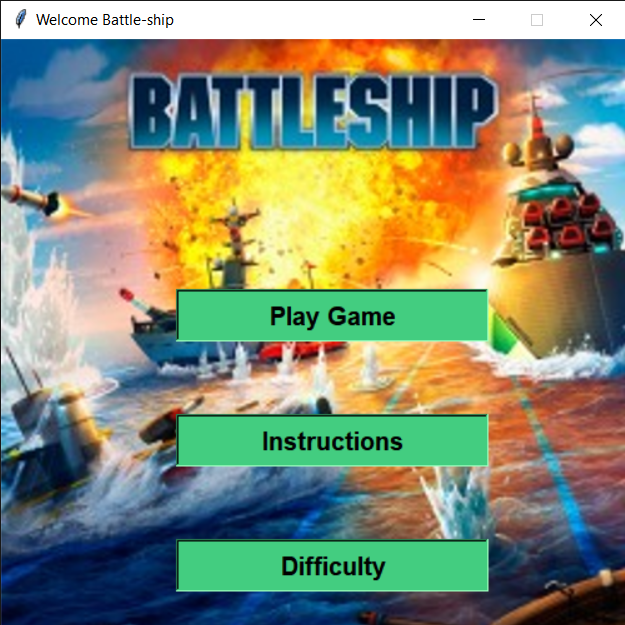
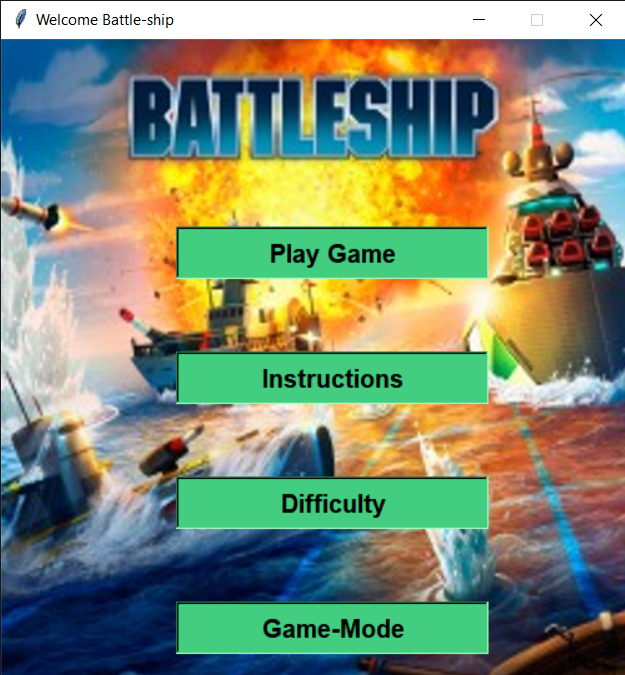
Two player mode added for Battle-ship game

diff --git a/Python/Battle-ship-game/game.py b/Python/Battle-ship-game/game.py
@@ -23,11 +23,23 @@ class Create:
 
 	@staticmethod
 	def hint():
-		if Main.flag == True:
-			hin = [ i.give_id for i in Main.lis_comp if i.get_fg == 'Red']
-			hin = (random.choice(hin)-64) + random.randint(0 , 3)
-			messagebox.showinfo('Compass' , f'One of Enemy Ship is at box location { hin }')
-		else: messagebox.showinfo('Message' , 'Kindly place yours ships first !!')
+		global turn
+		if Intro.Gme_mode : 
+			if Main.flag == True:
+				hin = [ i.give_id for i in Main.lis_comp if i.get_fg == 'Red']
+				hin = (random.choice(hin)-64) + random.randint(0 , 3)
+				messagebox.showinfo('Compass' , f'One of Enemy Ship is at box location { hin }')
+			else: messagebox.showinfo('Message' , 'Kindly place yours ships first !!')
+		elif not Intro.Gme_mode : 
+			if Main.flag  : 
+				if turn%2 == 0 : 
+					hin = [ i.give_id for i in Main.lis_comp if i.get_fg == 'Red']
+					hin = (random.choice(hin)-64) + random.randint(0 , 3)
+					messagebox.showinfo('Compass' , f'One of Player-2 Ship is at box location { hin }')
+				elif turn %2 == 1 : 
+					hin = [ i.give_id for i in Main.lis_player if i.get_bg == 'Red']
+					hin = (random.choice(hin)-64) + random.randint(0 , 3)
+					messagebox.showinfo('Compass' , f'One of Player-1 Ship is at box location { hin }')
 	
 	@property
 	def get_bg(self):
@@ -44,80 +56,125 @@ class Create:
 		self.fg = 'Red'		
 
 	def change(self):	
+		global turn
 		if Main.flag == False:
 			if self.num < 65:
 				if self.bg == 'White':
-					self.button.configure(bg = 'RED')
+					if Intro.Gme_mode : 
+						self.button.configure(bg = 'RED')
 					self.bg = 'Red'
 					return False
-		if Main.flag == True:
-			if self.num < 65: return None
-		if Main.flag == True: # ################ FIRING MODE ############### #
+			if not Intro.Gme_mode  : 
+				if self.num  > 64 : 
+					if self.bg == 'White' : 
+						# self.button.configure(bg = 'RED')
+						self.button.configure(fg = 'Red')
+						self.fg = 'Red'
+		if Intro.Gme_mode : 
+			if Main.flag == True:
+				if self.num < 65: return None
+# ########################### FIRING MODE ########################### #			
+		if Main.flag == True: 
 			z = Create.intelligence()
 			a = random.choice(z) + random.randint( 0 , Intro.diff_level )		
 
-# ################# FIRING ON COMPUTER REGION #######################
+# ################# FIRING ON COMPUTER/Player-2 REGION #######################
 			if self.fg == 'Red' and self.num > 64:
-				self.button.configure(bg = 'BLUE' )
-				self.bg = 'Blue'
-				play(exp_sound)
-				Create.computer_health-=1
+				if not Intro.Gme_mode :
+					if turn % 2 == 0: 
+						turn+=1
+						self.button.configure(bg = 'BLUE' )
+						self.bg = 'Blue'
+						play(exp_sound)
+						Create.computer_health-=1
+				else : 
+					self.button.configure(bg = 'BLUE' )
+					self.bg = 'Blue'
+					play(exp_sound)
+					Create.computer_health-=1
 
 				Main.player_health['text'] = f'Your-Health : {Create.player_health}'
 				Main.computer_health['text'] = f'Comp-Health : {Create.computer_health}'
 
 				if Create.computer_health == 0:
-					m=messagebox.askquestion('HURRAH ! ' , 'YOU SANK Enemie\'s ARMADA ! '+'\n'+'Do you want to play again ?')
+					m=messagebox.askquestion('HURRAH ! ' , 'YOU SANK Player-2\'s ARMADA ! '+'\n'+'Do you want to play again ?')
 					if m == 'yes': Main.destroy_comp(self.parent , flag = False)
 					if m == 'no': exit()		
 					return False
 			
 			if self.fg == 'Yellow' and self.num > 64:
-				self.button.configure(bg = 'pink')
-				self.bg = 'pink'
+				if not Intro.Gme_mode :
+					if turn % 2 == 0 :
+						turn+=1 
+						self.button.configure(bg = 'pink')
+						self.bg = 'pink'
+				else : 
+					self.button.configure(bg = 'pink')
+					self.bg = 'pink'
+					pres = 0
+					for i in Main.lis_comp:
+						if self.num - i.num == -1 or self.num - i.num == 1:
+							if i.fg=='Red':
+								pres+=1
+						if i.num - self.num == -8 or i.num  - self.num == 8:
+							if i.fg == 'Red':
+								pres+=1
+						if i.num - self.num == -7 or i.num - self.num == 7:
+							if i.fg == 'Red':
+								pres+=1
+						if i.num -self.num == - 9 or i.num -self.num == 9:
+							if i.fg == 'Red':
+								pres+=1
+					self.button['text'] = str(pres)
+					play(shot_sound)
 
-				pres = 0
-				for i in Main.lis_comp:
-					if self.num - i.num == -1 or self.num - i.num == 1:
-						if i.fg=='Red':
-							pres+=1
-					if i.num - self.num == -8 or i.num  - self.num == 8:
-						if i.fg == 'Red':
-							pres+=1
-					if i.num - self.num == -7 or i.num - self.num == 7:
-						if i.fg == 'Red':
-							pres+=1
-					if i.num -self.num == - 9 or i.num -self.num == 9:
-						if i.fg == 'Red':
-							pres+=1
-
-				self.button['text'] = str(pres)
-				play(shot_sound)
-
-# ################## FIRING ON PLAYER REGION #########################
-			
-			for k in Main.lis_player:
-				if k.give_id == a:
-					if k.bg == 'Red' :
-						k.button.configure(bg = 'BLUE' )
-						k.bg = 'Blue'
+# ################## FIRING ON PLAYER/Player-1 REGION #########################
+			if not Intro.Gme_mode :
+				if turn %2 == 1 :
+					if self.bg == 'Red' and self.num < 65:
+						turn+=1
+						self.button.configure(bg = 'BLUE' )
+						self.bg = 'Blue'
 						play(exp_sound)
 						Create.player_health-=1
-						
+
 						Main.player_health['text'] = f'Your-Health : {Create.player_health}'
 						Main.computer_health['text'] = f'Comp-Health : {Create.computer_health}'
 
 						if Create.player_health == 0:
-							m = messagebox.askquestion('OPSS' , '...You Lost... Enemy Sunk your fleet'+'\n'+'Do You want to play again ?')
+							m=messagebox.askquestion('HURRAH ! ' , 'YOU SANK Player-1\'s ARMADA ! '+'\n'+'Do you want to play again ?')
 							if m == 'yes': Main.destroy_comp(self.parent , flag = False)
-							if m == 'no': exit()	
+							if m == 'no': exit()		
 							return False
-
-					if k.bg == 'White' :
-						k.button.configure(bg = 'pink')
-						k.bg = 'pink'
+					elif self.bg == 'White' and self.num < 65:
+						turn+=1
+						self.button.configure(bg = 'pink')
+						self.bg = 'pink'
 						play(shot_sound)
-					break
+
+			if Intro.Gme_mode  : 
+				for k in Main.lis_player:
+					if k.give_id == a:
+						if k.bg == 'Red' :
+							k.button.configure(bg = 'BLUE' )
+							k.bg = 'Blue'
+							play(exp_sound)
+							Create.player_health-=1
+							
+							Main.player_health['text'] = f'Your-Health : {Create.player_health}'
+							Main.computer_health['text'] = f'Comp-Health : {Create.computer_health}'
+
+							if Create.player_health == 0:
+								m = messagebox.askquestion('OPSS' , '...You Lost... Enemy Sunk your fleet'+'\n'+'Do You want to play again ?')
+								if m == 'yes': Main.destroy_comp(self.parent , flag = False)
+								if m == 'no': exit()	
+								return False
+
+						if k.bg == 'White' :
+							k.button.configure(bg = 'pink')
+							k.bg = 'pink'
+							play(shot_sound)
+						break
 		Main.player_health['text'] = f'Your-Health : {Create.player_health}'
 		Main.computer_health['text'] = f'Comp-Health : {Create.computer_health}'
 	
@@ -213,19 +270,21 @@ class Main:
 
 class Intro(Main):
 	diff_level , dic = 10 , { 10  : '--Easy--', 7 : '--Hard--' , 4 : ' --Insane--' }
-	inverted_dic = { value:key for (key,value) in dic.items() }
-	
+	Gme_mode = True
+	inverted_dic = { value:key for (key,value) in dic.items() }	
 	def __init__(self):
 		self.root = Tk()
-		self.root.geometry('500x500'+'+300+100') , self.root.resizable(0,0) , self.root.title('Welcome Battle-ship')
-		self.photo = ImageTk.PhotoImage(Image.open('image.jpg').resize( (500,500) ))
+		self.root.geometry('500x540'+'+300+100') , self.root.resizable(0,0) , self.root.title('Welcome Battle-ship')
+		self.photo = ImageTk.PhotoImage(Image.open('image.jpg').resize( (500,540) ))
 		Label(self.root ,image = self.photo ).pack()
 		self.new_srt = Button(self.root , text = 'Play Game',relief=SUNKEN ,width = 20, bg = 'seagreen3' , fg = 'black' , font = ('veredana' , 15 , 'bold' ),  command = self.play  )
-		self.new_srt.place(x = 140 , y = 200)
+		self.new_srt.place(x = 140 , y = 150)
 		self.instr = Button(self.root , text = 'Instructions',relief=SUNKEN ,width = 20, bg = 'seagreen3' , fg = 'black' , font = ('veredana' , 15 , 'bold' ),  command = self.instructions  )
-		self.instr.place(x = 140 , y = 300)
+		self.instr.place(x = 140 , y = 250)
 		self.diff_lev = Button(self.root , text = 'Difficulty',relief=SUNKEN ,width = 20, bg = 'seagreen3' , fg = 'black' , font = ('veredana' , 15 , 'bold' ),  command = self.level_difficulty  )
-		self.diff_lev.place(x = 140 , y = 400)
+		self.diff_lev.place(x = 140 , y = 350)
+		self.gme_mode = Button(self.root , text = 'Game-Mode',relief=SUNKEN ,width = 20, bg = 'seagreen3' , fg = 'black' , font = ('veredana' , 15 , 'bold' ),  command = self.mode_sel  )
+		self.gme_mode.place(x = 140 , y = 450)
 
 		self.new_srt.bind('<Enter>' , lambda event, bt_this = self.new_srt : on_enter(event ,  bt_this ) ) 
 		self.new_srt.bind('<Leave>' ,  lambda event, bt_this = self.new_srt : on_leave( event , bt_this ) ) 		
@@ -234,6 +293,8 @@ class Intro(Main):
 		self.diff_lev.bind('<Enter>' , lambda event, bt_this = self.diff_lev : on_enter(event ,  bt_this ) ) 
 		self.diff_lev.bind('<Leave>' ,  lambda event, bt_this = self.diff_lev : on_leave( event , bt_this ) ) 		
 
+		self.gme_mode.bind('<Enter>' , lambda event, bt_this = self.gme_mode: on_enter(event ,  bt_this ) ) 
+		self.gme_mode.bind('<Leave>' ,  lambda event, bt_this = self.gme_mode : on_leave( event , bt_this ) ) 		
 
 		self.root.mainloop()
 
@@ -266,7 +327,27 @@ class Intro(Main):
 		hard.bind('<Leave>' ,  lambda event, bt_this = hard: on_leave( event , bt_this ) ) 		
 		insane.bind('<Enter>' , lambda event, bt_this = insane : on_enter(event ,  bt_this ) ) 
 		insane.bind('<Leave>' ,  lambda event, bt_this = insane: on_leave( event , bt_this ) ) 		
+	
+	def mode_sel(self) : 
+		self.mode_wind = Toplevel()
+		self.mode_wind.configure(bg = 'Black')
+		self.mode_wind.geometry('480x250') ,self.mode_wind.resizable(0,0) , self.mode_wind.title('Difficulty Level')
+		Label(self.mode_wind,bg='Black').pack()
+		fps = Button(self.mode_wind , text = 'Single-player', bg = 'seagreen3',fg='black' , width = 10 ,font = ('veredana italic' , 12, 'bold'),command = lambda : self.set_mode('Single-player') )
+		mps = Button(self.mode_wind , text = 'Multi-player', bg = 'seagreen3',fg='black' , width = 10 ,font = ('veredana italic' , 12, 'bold'),command = lambda : self.set_mode('Multi-player') )
+		fps.pack(pady=10 , ipadx = 50 , ipady = 10) , mps.pack(pady=10 , ipadx = 50 , ipady = 10)
+		fps.bind('<Enter>' , lambda event, bt_this = fps : on_enter(event ,  bt_this ) ) 
+		fps.bind('<Leave>' ,  lambda event, bt_this = fps: on_leave( event , bt_this ) ) 		
+		mps.bind('<Enter>' , lambda event, bt_this = mps : on_enter(event ,  bt_this ) ) 
+		mps.bind('<Leave>' ,  lambda event, bt_this = mps: on_leave( event , bt_this ) ) 		
 
+	def set_mode(self , txt) :
+		if txt == 'Single-player' :
+			Intro.Gme_mode = True
+			messagebox.showinfo('Set' , 'SINGLE PLAYER mode selected' , parent = self.mode_wind) , self.mode_wind.destroy()
+		elif txt == 'Multi-player' : 
+			Intro.Gme_mode = False
+			messagebox.showinfo('Set' , 'MULTI PLAYER mode selected' , parent = self.mode_wind) , self.mode_wind.destroy()
 	
 	def set_level(self , txt):
 		if txt == 'Easy' : 
@@ -292,27 +373,45 @@ def show_grid(root,  parent , specify = False ):
 			counter+=1
 
 def start_place():
-	check  , count = 0 , 0
+	check , count , check_2 , count_2 = 0 , 0 , 0 , 0
 	if Main.flag == False:
 		for i in Main.lis_player:
 			if i.get_bg == 'White':check+=1
 			if i.get_bg == 'Red':count+=1 				
 		if check == 64:
-			messagebox.showinfo('Alert' , ' Place YOUR SHIPS KINDLY !  ')
+			messagebox.showinfo('Alert' , ' Player-1 Kindly place your ships !  ')
 			return True
-		rec = random.sample(range( 0 , 64 ) , count )
-		y = list(map( lambda x :  x+65  , rec)  )
-		for i in y:
-			for j in Main.lis_comp:
-				if j.give_id == i:
-					j.place_enemy()
-		Create.player_health ,  Create.computer_health = count , count			
-		count = 0
+		if Intro.Gme_mode : 
+			rec = random.sample(range( 0 , 64 ) , count )
+			y = list(map( lambda x :  x+65  , rec)  )
+			for i in y:
+				for j in Main.lis_comp:
+					if j.give_id == i:
+						j.place_enemy()
+
+		elif not Intro.Gme_mode  : 
+			if not Main.flag  : 
+				for each in Main.lis_comp : 
+					if each.get_fg == 'Yellow':check_2+=1
+					if each.get_fg == 'Red':count_2+=1
+				if check_2 == 64 :  	
+					messagebox.showinfo('Alert' , ' Player-2 kindly place your ships !  !  ')
+					return True
+		if count_2 == 0 :  
+			Create.player_health ,  Create.computer_health = count , count
+		elif count_2 != 0 : 			
+			Create.player_health ,  Create.computer_health = count , count_2
+			count = 0
 
 		Main.player_health['text'] = f'Your-Health : {Create.player_health}'
 		Main.computer_health['text'] = f'Comp-Health : {Create.computer_health}'	
 		Main.flag = True
-		messagebox.showinfo('READY' , f'ALL-SET.!!\n You are playing in "{ Intro.dic[Intro.diff_level] }" mode  Click "OK" to start game' )
+		if Intro.Gme_mode : 
+			dis_txt = f'ALL-SET.!!\n You are playing in "{ Intro.dic[Intro.diff_level] }" mode  Click "OK" to start game'
+		elif not Intro.Gme_mode : 	
+			dis_txt = f'ALL-SET.!!\n Click OK to start the epic battle !:)'	
+		messagebox.showinfo('READY' , dis_txt )
+
 
  
 def play(file_name):
@@ -330,8 +429,8 @@ def on_leave(e  , bt , bg_color = 'seagreen3'):
 # ######################### MAIN PROGRAMM ######################### #
 
 if __name__ == '__main__':
-	
 	sec , minu , flag= 0 , 0 , True
+	turn  = 0
 	pygame.mixer.init()
 	crr_path = os.getcwd()
 	dirs = [ each for each in os.listdir(crr_path) if os.path.isdir(each) ]
@@ -349,4 +448,3 @@ if __name__ == '__main__':
 		root_msg.withdraw()
 		messagebox.showerror("Error", f'The directory named "Sound" doesnt exist :) ')
 			
-
